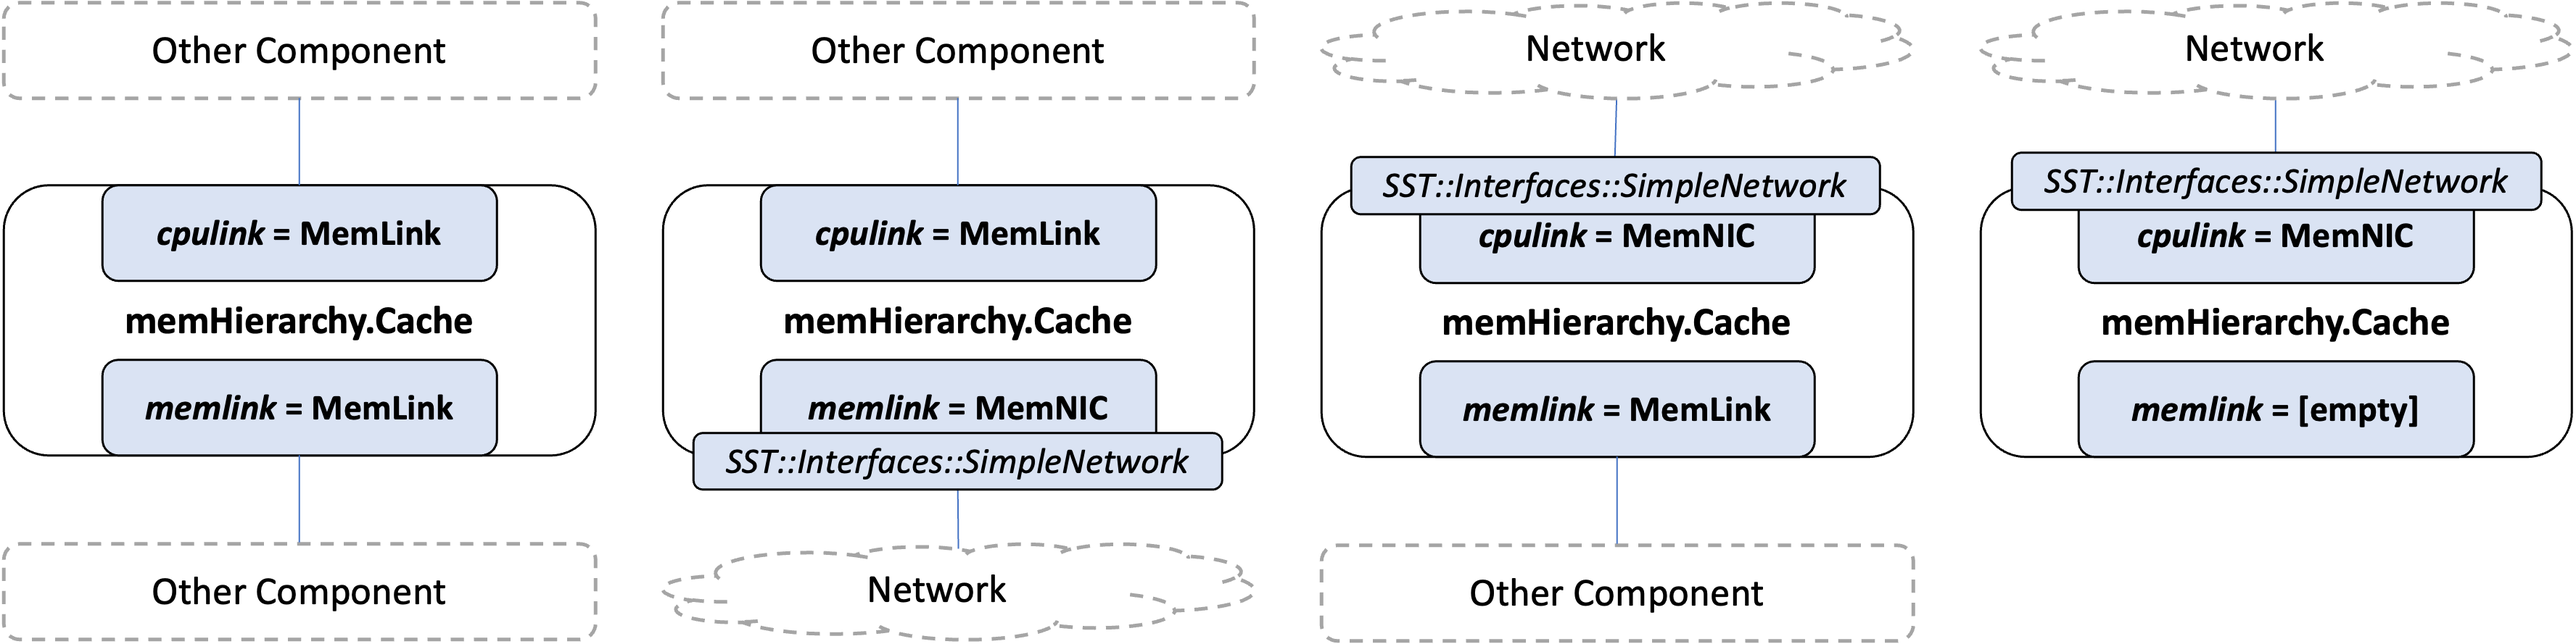
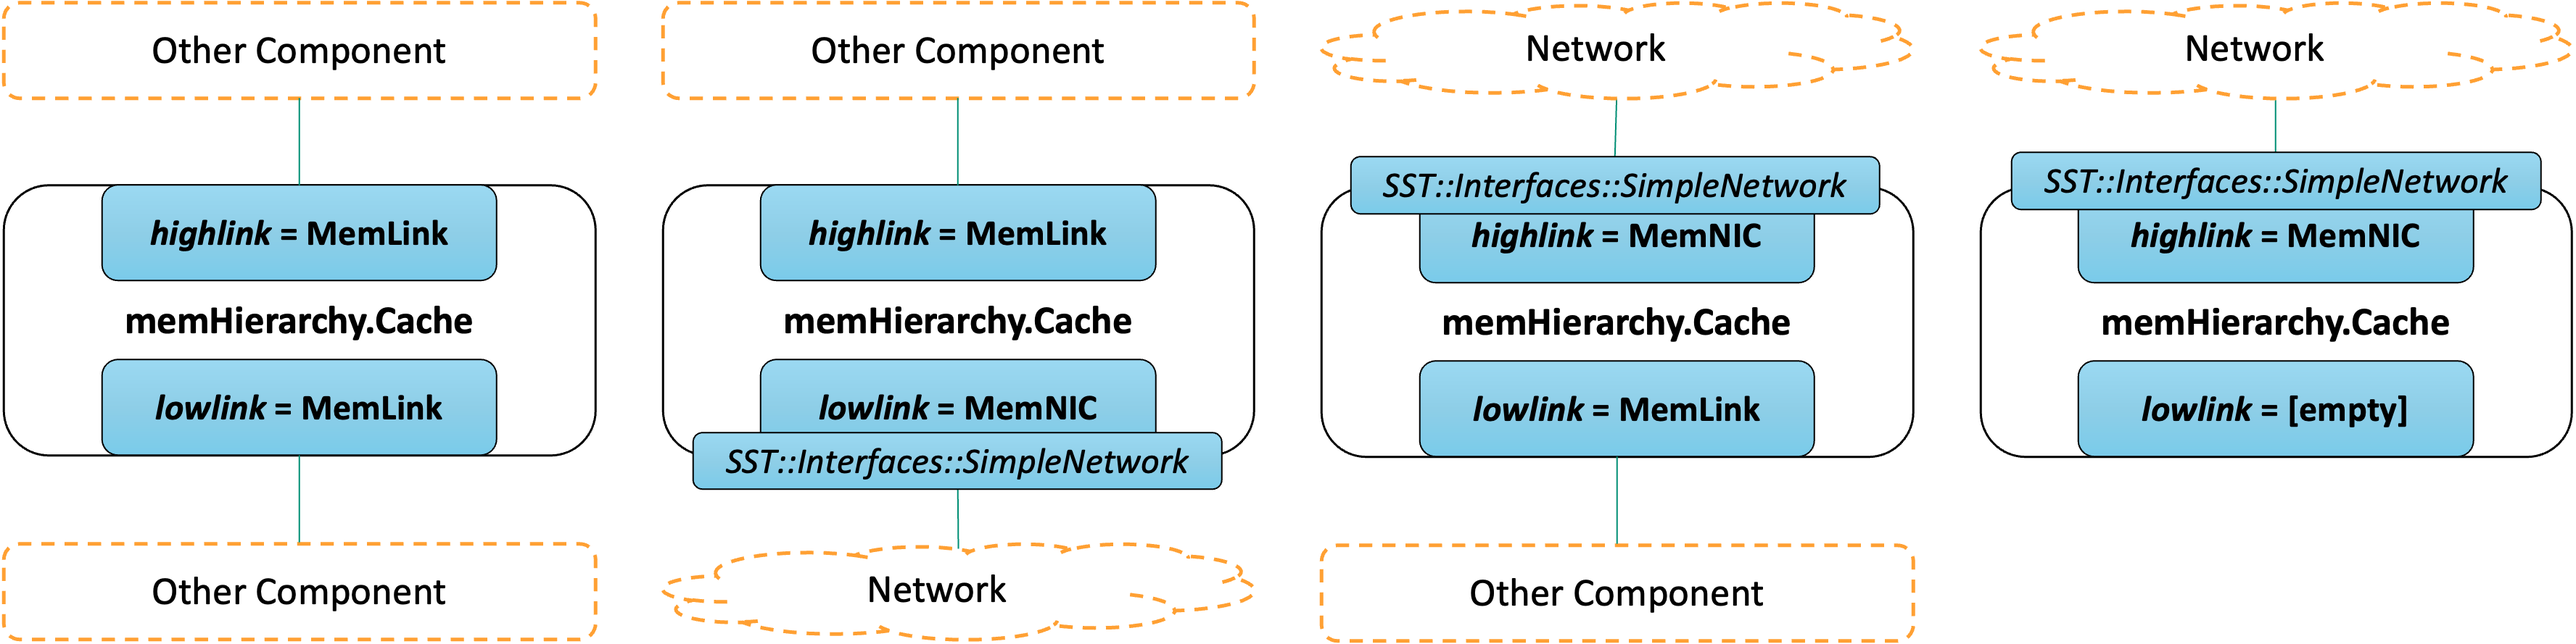
Minor updates to formatting, clarifying text Update to reflect memHierarchy port name change

diff --git a/docs/guides/runningSST.md b/docs/guides/runningSST.md
@@ -16,76 +16,125 @@ $ <SST binary> [SST options] <config file>
 Running SST with the "--help" flag prints a help message that includes all of the supported simulator options. Here's a snippet:
 
 ```sh
-$ sst --help
 Usage: sst [options] config-file
   Arguments to options contained in [] are optional
-  Options available to be set in the sdl file (input configuration file) are denoted by (S)
-   - Options set on the command line take precedence over options set in the SDL file
   Notes on flag options (options that take an optional BOOL value):
    - BOOL values can be expressed as true/false, yes/no, on/off or 1/0
    - Program default for flags is false
    - BOOL values default to true if flag is specified but no value is supplied
 
+Options annotated with 'H' have extended help available
+Options annotated with 'S' can be set in the SDL file (input configuration file)
+  - Note: Options set on the command line take precedence over options set in the SDL file
+
+
 Informational Options
--h --help                             Print help message
+-h --usage                            Print usage information.
+   --help=option                      Print extended help information for requested option.
 -V --version                          Print SST Release Version
 
 Basic Options (most commonly used)
--v --verbose=[level]              (S) Verbosity level to determine what information about core runtime is printed
--n --num-threads=NUM              (S) Number of parallel threads to use per rank
-   --num_threads=NUM              (S) [Deprecated] Number of parallel threads to use per rank (deprecated, please use --num-threads or -n instead)
-   --sdl-file=FILE                    Specify SST Configuration file.  Note: this is most often done by just specifying the file without an option.
-   --model-options=STR                Provide options to the python configuration script.  Additionally, any arguments provided after a final '-- ' will be appended to the model options (or used as
+-v --verbose=[level]                S Verbosity level to determine what information about core runtime is printed.  
+                                      If no argument is specified, it will simply increment the verbosity level.
+-n --num-threads=NUM                S Number of parallel threads to use per rank
+   --sdl-file=FILE                    Specify SST Configuration file.  Note: this is most often done by just specifying 
+                                      the file without an option.
+   --model-options=STR                Provide options to the python configuration script.  Additionally, any arguments 
+                                      provided after a final '-- ' will be appended to the model options (or used as 
                                       the model options if --model-options was not specified).
-   --print-timing-info=[BOOL]     (S) Print SST timing information
-   --stop-at=TIME                 (S) Set time at which simulation will end execution
-   --stopAtCycle=TIME             (S) [DEPRECATED] Set time at which simulation will end execution (deprecated, please use --stop-at instead)
-   --exit-after=TIME              (S) Set the maximum wall time after which simulation will end execution.  Time is specified in hours, minutes and seconds, with the following formats supported:
-                                      H:M:S, M:S, S, Hh, Mm, Ss (captital letters are the appropriate numbers for that value, lower case letters represent the units and are required for those
-                                      formats).
-   --stopAfter=TIME               (S) [DEPRECATED] Set the maximum wall time after which simulation will exit (deprecated, please use --exit-after instead
-   --partitioner=PARTITIONER      (S) Select the partitioner to be used. <lib.partitionerName>
-   --heartbeat-period=PERIOD      (S) Set time for heartbeats to be published (these are approximate timings, published by the core, to update on progress)
-   --output-directory=DIR         (S) Directory into which all SST output files should reside
-   --output-prefix-core=STR       (S) set the SST::Output prefix for the core
+   --print-timing-info=[BOOL]       S Print SST timing information
+   --stop-at=TIME                   S Set time at which simulation will end execution
+   --exit-after=TIME                S Set the maximum wall time after which simulation will end execution.  Time is
+                                      specified in hours, minutes and seconds, with the following formats supported:
+                                      H:M:S, M:S, S, Hh, Mm, Ss (capital letters are the appropriate numbers for that 
+                                      value, lower case letters represent the units and are required for those formats).
+   --partitioner=PARTITIONER        S Select the partitioner to be used. <lib.partitionerName>
+   --heartbeat-period=PERIOD        S Set time for heartbeats to be published (these are approximate timings measured
+                                      in simulation time, published by the core, to update on progress)
+   --heartbeat-wall-period=PERIOD   S Set approximate frequency for heartbeats (SST-Core progress updates) to be 
+                                      published in terms of wall (real) time. PERIOD can be specified in hours, 
+                                      minutes, and seconds with the following formats supported: H:M:S, M:S, S, Hh, Mm, 
+                                      Ss (capital letters are the appropriate numbers for that value, lower case 
+                                      letters represent the units and are required for those formats.).
+   --heartbeat-sim-period=PERIOD    S Set approximate frequency for heartbeats (SST-Core progress updates) to be 
+                                      published in terms of simulated time. PERIOD must include time units (s or Hz) 
+                                      and SI prefixes are accepted.
+   --output-directory=DIR           S Directory into which all SST output files should reside
+   --output-prefix-core=STR         S set the SST::Output prefix for the core
 
 Configuration Output Options (generates a file that can be used as input for reproducing a run)
-   --output-config=FILE           (S) File to write SST configuration (in Python format)
-   --output-json=FILE             (S) File to write SST configuration graph (in JSON format)
-   --parallel-output=[BOOL]       (S) Enable parallel output of configuration information.  This option is ignored for single rank jobs.  Must also specify an output type (--output-config and/or
-                                      --output-json).  Note: this will also cause partition info to be output if set to true.
+   --output-config=FILE             S File to write SST configuration (in Python format)
+   --output-json=FILE               S File to write SST configuration graph (in JSON format)
+   --parallel-output=[BOOL]         S Enable parallel output of configuration information.  This option is ignored for
+                                      single rank jobs.  Must also specify an output type (--output-config and/or 
+                                      --output-json).  Note: this will also cause partition info to be output if set
+                                      to true.
 
 Graph Output Options (for outputting graph information for visualization or inspection)
-   --output-dot=FILE              (S) File to write SST configuration graph (in GraphViz format)
-   --dot-verbosity=INT            (S) Amount of detail to include in the dot graph output
-   --output-partition=[FILE]      (S) File to write SST component partitioning information.  When used without an argument and in conjuction with --output-json or --output-config options, will cause
-                                      paritition information to be added to graph output.
+   --output-dot=FILE                S File to write SST configuration graph (in GraphViz format)
+   --dot-verbosity=INT              S Amount of detail to include in the dot graph output
+   --output-partition=[FILE]        S File to write SST component partitioning information.  When used without an
+                                      argument and in conjuction with --output-json or --output-config options,
+                                      will cause partition information to be added to graph output.
 
 Advanced Options
-   --timebase=TIMEBASE            (S) Set the base time step of the simulation (default: 1ps)
-   --parallel-load=[MODE]             Enable parallel loading of configuration. This option is ignored for single rank jobs.  Optional mode parameters are NONE, SINGLE and MULTI (default).  If NONE
-                                      is specified, parallel-load is turned off. If SINGLE is specified, the same file will be passed to all MPI ranks.  If MULTI is specified, each MPI rank is
-                                      required to have it's own file to load. Note, not all input formats support both types of file loading.
-   --timeVortex=MODULE            (S) Select TimeVortex implementation <lib.timevortex>
-   --interthread-links=[BOOL]     (S) [EXPERIMENTAL] Set whether or not interthread links should be used
-   --cache-align-mempools=[BOOL]  (S) [EXPERIMENTAL] Set whether mempool allocations are cache aligned
-   --debug-file=FILE              (S) File where debug output will go
-   --lib-path=LIBPATH             (S) Component library path (overwrites default)
-   --add-lib-path=LIBPATH         (S) Component library path (appends to main path)
+   --timebase=TIMEBASE             HS Set the base time step of the simulation (default: 1ps)
+   --parallel-load=[MODE]             Enable parallel loading of configuration. This option is ignored for single rank 
+                                      jobs.  Optional mode parameters are NONE, SINGLE and MULTI (default).  If NONE is 
+                                      specified, parallel-load is turned off. If SINGLE is specified, the same file 
+                                      will be passed to all MPI ranks.  If MULTI is specified, each MPI rank is 
+                                      required to have it's own file to load. Note, not all input formats support both 
+                                      types of file loading.
+   --timeVortex=MODULE              S Select TimeVortex implementation <lib.timevortex>
+   --interthread-links=[BOOL]       S [EXPERIMENTAL] Set whether or not interthread links should be used
+   --cache-align-mempools=[BOOL]    S [EXPERIMENTAL] Set whether mempool allocations are cache aligned
+   --debug-file=FILE                S File where debug output will go
+   --lib-path=LIBPATH                 Component library path (overwrites default)
+   --add-lib-path=LIBPATH             Component library path (appends to main path)
 
 Advanced Options - Profiling (EXPERIMENTAL)
-   --enable-profiling=POINTS      (S) Enables default profiling for the specified points.  Argument is a semicolon separated list specifying the points to enable.
-   --profiling-output=FILE        (S) Set output location for profiling data [stdout (default) or a filename]
+   --enable-profiling=POINTS       HS Enables default profiling for the specified points.  Argument is a semicolon 
+                                      separated list specifying the points to enable.
+   --profiling-output=FILE          S Set output location for profiling data [stdout (default) or a filename]
 
 Advanced Options - Debug
-   --run-mode=MODE                (S) Set run mode [ init | run | both (default)]
-   --output-undeleted-events=FILE (S) file to write information about all undeleted events at the end of simulation (STDOUT and STDERR can be used to output to console)
+   --run-mode=MODE                  S Set run mode [ init | run | both (default)]
+   --interactive-console=ACTION     S [EXPERIMENTAL] Set console to use for interactive mode. NOTE: This currently only 
+                                      works for serial jobs and this option will be ignored for parallel runs.
+   --interactive-start=[TIME]       S [EXPERIMENTAL] Drop into interactive mode at specified simulated time.  If no 
+                                      time is specified, or the time is 0, then it will drop into interactive mode 
+                                      before any events are processed in the main run loop. This option is ignored if 
+                                      no interactive console was set. NOTE: This currently only works for serial jobs 
+                                      and this option will be ignored for parallel runs.
+   --output-undeleted-events=FILE   S file to write information about all undeleted events at the end of simulation 
+                                      (STDOUT and STDERR can be used to output to console)
    --force-rank-seq-startup           Force startup phases of simulation to execute one rank at a time for debug purposes
 
 Advanced Options - Environment Setup/Reporting
    --print-env                        Print environment variables SST will see
-   --disable-signal-handlers          Disable signal handlers
    --no-env-config                    Disable SST environment configuration
+   --disable-signal-handlers          Disable signal handlers
+   --sigusr1=MODULE                HS Select handler for SIGUSR1 signal. See extended help for detail.
+   --sigusr2=MODULE                HS Select handler for SIGUSR2 signal. See extended help for detail.
+   --sigalrm=MODULE                HS Select handler for SIGALRM signals. Argument is a semicolon separated list
+                                      specifying the handlers to register along with a time interval for each. 
+                                      See extended help for detail.
+
+Advanced Options - Checkpointing (EXPERIMENTAL)
+   --checkpoint-wall-period=PERIOD  S Set approximate frequency for checkpoints to be generated in terms of wall (real)
+                                      time. PERIOD can be specified in hours, minutes, and seconds with the following
+                                      formats supported: H:M:S, M:S, S, Hh, Mm, Ss (capital letters are the appropriate
+                                      numbers for that value, lower case letters represent the units and are
+                                      required for those formats.).
+   --checkpoint-period=PERIOD       S Set approximate frequency for checkpoints to be generated in terms of simulated
+                                      time. PERIOD must include time units (s or Hz) and SI prefixes are accepted. This
+                                      flag will eventually be removed in favor of --checkpoint-sim-period
+   --checkpoint-sim-period=PERIOD   S Set approximate frequency for checkpoints to be generated in terms of simulated
+                                      time. PERIOD must include time units (s or Hz) and SI prefixes are accepted.
+   --load-checkpoint                  Load checkpoint and continue simulation. Specified SDL file will be used as the
+                                      checkpoint file.
+   --checkpoint-prefix=PREFIX      HS Set prefix for checkpoint filenames. The checkpoint prefix defaults to checkpoint
+                                      if this option is not set and checkpointing is enabled.
 ```
 
 ## Simulation Examples

diff --git a/docs/guides/configuration/pythonConfigGuide.md b/docs/guides/configuration/pythonConfigGuide.md
@@ -4,7 +4,7 @@ title: "Simulation configuration file"
 
 SST provides a Python module to allow interaction with the simulation build system. This Python module is used in the input Python script for the purpose of building the graph that represents the simulation to be performed. This is done by providing classes and functions to define the elements of the simulation, their parameters, and how they are interconnected. The user can also optionally enable statistics and create a user specified partitioning for the described model. Behind the scenes, these classes will build the C\+\+ data structure that is used by SST to construct the simulation model. 
 
-The SST core Python module is defined in cpython and is only available in the Python interpreter launched within a running SST executable. The module is accessed by importing the sst module. This can be done in a number of ways. The two most common being: 
+The SST-Core Python module is defined in cpython and is only available in the Python interpreter launched within a running SST executable. The module is accessed by importing the `sst` module. This can be done in a number of ways. The two most common being: 
 
 
 ```py
@@ -78,8 +78,6 @@ component0.addParam("eventSize", "32")
 ```
 
 ### Links
----
-
 Links are classes in the `sst` module as well.  They are created with just a user-defined name.
 
 ```py
@@ -206,12 +204,12 @@ compA.enableStatistics(["statname1", "statname4"],
                         "rate" : "100 ns", 
                         "stopat" : "800 ns" })
 
-# Enable all statistics on 'compB' and output them every 500ms in simulated time.
+# Enable all statistics on 'compB' with load level <= 6 and output them every 500ms in simulated time.
 compB.enableAllStatistics({"type" : "sst.AccumulatorStatistic", 
                            "rate" : "500ms" })
 
-# Enable all statistics for components of type 'StatisticComponent3' (i.e., compC-E)
-# All of these statistics will be collected as histograms iwth 41 bins of size 10. 
+# Enable all statistics (with load level <= 6) for components of type 'StatisticComponent3' (i.e., compC-E)
+# All of these statistics will be collected as histograms with 41 bins of size 10. 
 # The min bin is '10-19' and any value above the largest bin will be captured in that bin.
 sst.enableAllStatisticsForComponentType("ElementExample.StatisticsComponent3", 
                                        {"type":"sst.HistogramStatistic",
@@ -221,6 +219,7 @@ sst.enableAllStatisticsForComponentType("ElementExample.StatisticsComponent3",
                                         "IncludeOutOfBounds" : "1"})
 
 # Enable all statistics on the component named 'StatTestF' (i.e., compF)
+# Again, only statistics with load level <= 6 will be enabled
 sst.enableAllStatisticsForComponentName("StatTestF")
 ```
 
@@ -242,27 +241,30 @@ sst.ext()
 This could be the result:
 
 ```sh
-$ sst --model-options="-h -x foo" foo.py
-['sstsim.x', '-h', '-x', 'foo']
+$ sst --model-options="-h -x bar" foo.py
+['sstsim.x', '-h', '-x', 'bar']
 ```
 
 An alternative way to pass command-line arguments is by appending a `--` followed by the arguments to the sst command line, such as:
 ```sh
-$ sst foo.py -- -h -x foo
+$ sst foo.py -- -h -x bar
 ```
 
 ### Discovering available libraries and documentation
-SST Element libraries register information about their components, subcomponents, ports, subcomponent slots, parameters, and statistics with the SST Core. This information can be queried using the command-line utility, `sst-info`. The output can be filtered by passing the name of a library, or specific component/subcomponent in "lib.element" format to the utility.
+SST Element libraries register information about their components, subcomponents, ports, subcomponent slots, parameters, and statistics with the SST-Core. This information can be queried using the command-line utility, `sst-info`. The output can be filtered by passing the name of a library, or specific component/subcomponent in "lib.element" format to the utility.
 
 ```sh
 $ sst-info                                  # Output: All documentation about all libraries registered with the core
 $ sst-info -q                               # Output: (quiet) A list of component and subcomponent names for all libraries registered with the Core
 $ sst-info simpleElementExample             # Output: All documentation about the library 'simpleElementExample'
 $ sst-info simpleElementExample.example0    # Output: All documentation about the component 'simpleElementExample.example0'
+$ sst-info -i                               # Enter an interactive console to query the SST information. Requires the ncurses library.
 ```
 
 ## Element Library Extensions 
 
-Element library writes may choose to add functionality to the Python environment for configuration.  For example, the Merlin element library does this to simplify creation of large, simple networks.  This additional functionality would show up under a sub-module to SST.  For example: `import sst.merlin`.
+Element library developers may choose to add functionality to the Python environment to simplify configuration for specific libraries.  For example, the Merlin element library provides a module to automatically generate components and links for standard network topologies (ring, mesh, dragonfly, etc.). This additional functionality would show up under a sub-module to SST. For example: `import sst.merlin`.
 
 
+## JSON
+JSON can be used instead of Python to describe the simulation configuration. Currently, this method limits the ability to enable statistics. Documentation of JSON configuration files is in progress.

diff --git a/docs/tools/commandLine/sst-info.md b/docs/tools/commandLine/sst-info.md
@@ -6,7 +6,9 @@ The command line utility, `sst-info`, leverages the Element Library Information 
 
 For each type of SST object, sst-info provides the following.
 
+
 |                 | Component   | SubComponent  | Module  | Partitioner | ProfileTool |
+| ---             | ---         | ---           | ---     | ---         | ---         |
 | Description     | X           | X             | X       | X           | X           |
 | Version         | X           | X             | X       | X           | X           |
 | Compilation info | X          | X             | X       | X           | X           |
@@ -35,7 +37,7 @@ Shows the date compiled and source file.
 Components are assigned a category among `PROCESSOR COMPONENT`, `MEMORY COMPONENT`, `NETWORK COMPONENT`, `SYSTEM COMPONENT`, and `UNCATEGORIZED COMPONENT`. 
 
 #### API implemented
-For elements that implement an API (e.g., a SubComponent), the API implemented
+For elements that implement an API (e.g., a SubComponent), the API implemented.
 
 #### Parameters
 Parameters are displayed in the following format. `<name>` is the name of the parameter and matches the name that should be used in the SST input file. Each parameter displays a `<Description>` and the `<default>` value assigned to the parameter in square brackets. If no default value is defined, `<required>` is displayed instead.

diff --git a/docs/core/component/time/getDefaultTimeBase.md b/docs/core/component/time/getDefaultTimeBase.md
@@ -24,7 +24,7 @@ StandardInterface::StandardInterface(SST::ComponentId_t id, Params& params, Time
 
     // Pass our default time base to our child subcomponent
     //highlight-next-line
-    link_ = loadUserSubComponent<MemLinkBase>("memlink", ComponentInfo::SHARE_NONE, getDefaultTimeBase());
+    link_ = loadUserSubComponent<MemLinkBase>("lowlink", ComponentInfo::SHARE_NONE, getDefaultTimeBase());
 
     /** Remaining configuration here */
 }
